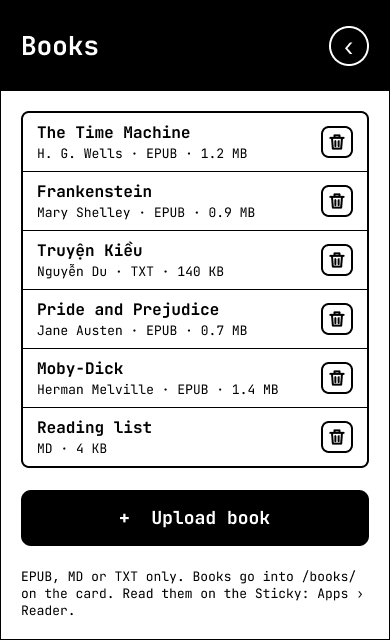
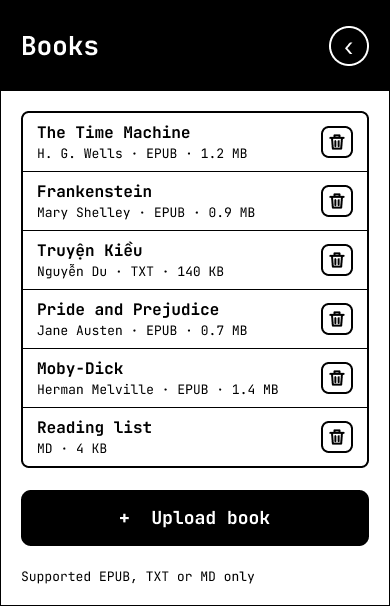
Phone Reader page: shorter notes (Supported EPUB, TXT or MD only; Supported .cpfont and sizes 12 and 14 only, visit crosspointreader.com/fonts); Figma 06s3 / 06s4 EN + VI

Changed region(s): [[0.0, 0.0297, 1.0, 0.9802], [0.0615, 0.0594, 0.2462, 0.0891]]

diff --git a/heysticky/net.h b/heysticky/net.h
@@ -694,7 +694,7 @@ async function booksView(){const v=$('v-books'),d=UPL?{books:[]}:await getJ('/ap
   del.onclick=()=>alertBox(L('Delete book?','Xoá sách?'),L('“'+b.title+'” and your place in it are removed from the card.','“'+b.title+'” và vị trí đang đọc sẽ bị xoá khỏi thẻ.'),L('Delete','Xoá'),async()=>{if(await post('/api/book_del',{name:b.name}))booksView()});
   return E('div',{className:'r'},E('span',{className:'t'},E('b',{textContent:b.title}),E('small',{className:'pr',textContent:[b.author,ext(b.name),mb(b.size)].filter(Boolean).join(' · ')})),del)});
  if(UPL)rows.unshift(upRow());
- const note=E('p',{className:'note',style:'margin-top:12px',textContent:L('EPUB, MD or TXT only. Books go into /books/ on the card. Read them on the Sticky: Apps › Reader.','Chỉ nhận EPUB, MD hoặc TXT. Sách được lưu vào /books/ trên thẻ. Đọc trên Sticky: Ứng dụng › Đọc.')});
+ const note=E('p',{className:'note',style:'margin-top:12px',textContent:L('Supported EPUB, TXT or MD only','Chỉ hỗ trợ EPUB, TXT hoặc MD')});
  const list=rows.length?E('div',{className:'g'},...rows):empty(L('No books yet','Chưa có sách'),L('Upload EPUB, MD or TXT files here, or copy them into /books/ on the card.','Tải tệp EPUB, MD hoặc TXT lên ở đây, hoặc chép vào /books/ trên thẻ.'));
  if(!rows.length)add.style.margin='0 0 22px';
  v.replaceChildren(list,add,file,note)}
@@ -714,8 +714,8 @@ async function rfontsView(){const v=$('v-rfonts'),fd=UPL?{fonts:[],use:''}:await
   return frow(f.name,f.sizes.join(', ')+' pt',f.name,del)})];
  if(UPL)rows.push(upRow());
  const link=E('a',{href:'https://crosspointreader.com/fonts',target:'_blank',rel:'noopener',textContent:'crosspointreader.com/fonts'});
- const note=E('p',{className:'note',style:'margin-top:12px'},L('.cpfont only. Build one from a TTF or OTF, or pick a ready-made font, at ','Chỉ nhận .cpfont. Tạo phông từ tệp TTF hoặc OTF, hoặc chọn phông có sẵn, tại '),link,
-  L(' (your phone needs internet). Name the files like Literata_12.cpfont, sizes 12 and 14. Tap a font to read with it.',' (điện thoại cần internet). Đặt tên tệp như Literata_12.cpfont, cỡ 12 và 14. Chạm vào một phông để đọc bằng phông đó.'));
+ const note=E('p',{className:'note',style:'margin-top:12px'},L('Supported .cpfont and sizes 12 and 14 only','Chỉ hỗ trợ .cpfont, cỡ 12 và 14'),E('br'),
+  L('Visit ','Truy cập '),link,L(' to create/download font',' để tạo/tải phông'));
  v.replaceChildren(E('div',{className:'g'},...rows),add,file,note)}
 const upRow=()=>E('div',{className:'r'},E('span',{className:'t'},E('b',{textContent:UPL.name}),E('small',{className:'pr',id:'upm',textContent:L('Uploading… ','Đang tải lên… ')+UPL.pct+'%'})));
 // ---------- Report a bug (06u): the Sticky gives the report ID and the link; the phone opens it ----------
